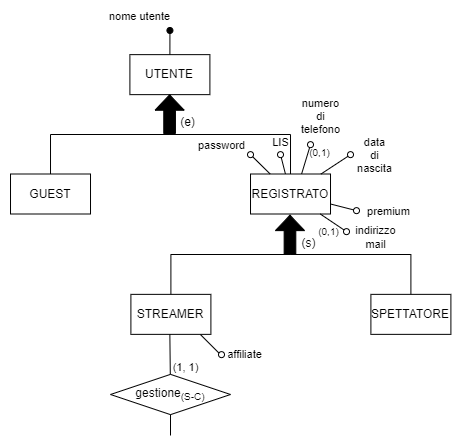
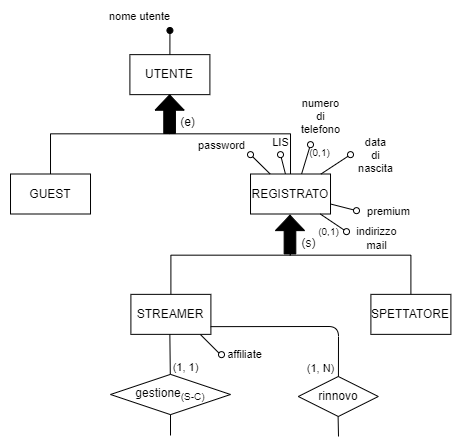
Correzione commit precedente
Aggiunto relazione mancante a generalizzazione 1 e aggiornato relativo markdown, ordinato testo nel file "3 Schema progettazione logica.md" parte 2.3.2.

diff --git a/Progetto Esame - DBSperimentazioni A.A. 2023-2024/Markdown/3 Schema progettazione logica.md b/Progetto Esame - DBSperimentazioni A.A. 2023-2024/Markdown/3 Schema progettazione logica.md
@@ -414,15 +414,25 @@ Nel processo di ristrutturazione, ci concentreremo sull'analisi e la rimozione d
 Dallo schema E-R concettuale, si può notare che le entità figlie `GUEST`, `STREAMER` e `SPETTATORE` o non hanno attributi oppure ne hanno solamente uno.
 Ci si concentra ora sulle ultime due entità figlie, `STREAMER` e `SPETTATORE`: non sono effettivamente delle entità, ma dei ruoli che l'entità padre `REGISTRATO` può assumere di tanto in tanto.
 Le due entità quindi possono essere incorporate nell'entità padre `REGISTRATO` senza aggiungere attributi "tipo", siccome il loro ruolo è facilmente intuibile dalle azioni di un utente registrato.
-La partecipazione dell'entità `REGISTRATO` all'associazione **_gestione<sub>(S-C)</sub>_** viene quindi aggiornata a (0,1), siccome solo uno streamer può avere un canale, mentre uno spettatore può non averlo (le altre partecipazioni e relative cardinalità rimangono inalterate).
+
+Le cardinalità delle partecipazioni dell'entità `REGISTRATO` alle associazioni **_gestione<sub>(S-C)</sub>_** e **_rinnovo_** vengono di conseguenza aggiornate a:
+
+- (0,1) nella prima associazione, siccome solo uno streamer può avere un canale, mentre uno spettatore può non averlo;
+- (0,N) nella seconda associazione, in quanto solo un utente streamer può rinnovare il servizio di hosting (si impone anche il relativo vincolo).
+
+Le altre partecipazioni e relative cardinalità rimangono invece inalterate.
+
 L'attributo **_affiliate_** che prima era dell'entità figlia `STREAMER` viene ora trasferito all'entità padre, ma con cardinalità (0,1) siccome la qualifica di affiliate può essere assegnata solo ad un utente streamer.
+
+Viene inoltre imposto il vincolo che solo uno streamer può partecipare all'associazione **_streaming_**.
 
 ![Generalizzazione 1b](../Immagini/generalizzazioni/2.3.2.1_gen_1b_cor.png)
 
 Adesso ci si concentra sull'entità `GUEST` senza attributi rimasta:
 
-qui risulta controproducente incorporare le entità figlie `GUEST` e `REGISTRATO` nell'entità padre `UTENTE`, in quanto si creerebbero degli sprechi di spazio producendo una base dati denormalizzata con
-valori nulli per colpa di `GUEST`. Si decide quindi di incorporare solamente l'entità `GUEST` nell'entità padre in quanto per identitficare un'utente guest basta solamente un nome utente univoco.
+qui risulta controproducente incorporare le entità figlie `GUEST` e `REGISTRATO` nell'entità padre `UTENTE`, in quanto si creerebbero degli sprechi di spazio producendo una base dati denormalizzata con valori nulli per colpa di `GUEST`.
+
+Si decide quindi di incorporare solamente l'entità `GUEST` nell'entità padre in quanto per identitficare un'utente guest basta solamente un nome utente univoco.
 
 ![Generalizzazione 1c](../Immagini/generalizzazioni/2.3.2.1_gen_1c_cor.png)
 
@@ -438,6 +448,7 @@ L'entità `REGISTRATO` invece viene utilizzata per compiere azioni riservate agl
 ![Generalizzazione 2a](../Immagini/generalizzazioni/2.3.2.2_gen_2a_cor.png)
 
 Dallo schema ER (considerato dopo l'eliminazione delle ridondanze), si può notare che la generalizzazione è totale ed esclusiva: le operazioni fanno ampiamente distinzione tra le entità figlie e a dimostrazione di ciò si ha la presenza di associazioni che coinvolgono le entità figlie separatamente; l'entità genitore però viene utilizzata in alcune operazioni più generiche, come ad esempio il calcolo della media dei like di ogni contenuto multimediale, indipendentemente che esso sia un video, una clip o una live.
+
 Essendo le entità figlie delle specializzazioni dell'entità padre `CONTENUTO MULTIMEDIALE` e avente quest'ultima pochi attributi, si potrebbe pernsare di accorpare ad esse l'entità genitore.
 
 Questo però causerebbe almeno due problemi:
@@ -452,18 +463,30 @@ Anche se potrebbe generare più accessi, si decide infine di sostituire la gener
 ![Generalizzazione 2b](../Immagini/generalizzazioni/2.3.2.2_gen_2b.png)
 
 Tutte e tre le nuove associazioni hanno cardinalità (0,1) e (1,1) e le entità `LIVE`, `VIDEO` e `CLIP` sono identificate esternamente dall'entità `CONTENUTO MULTIMEDIALE`.
+
 Si aggiunge anche un vincolo di partecipazione alle tre nuove associazioni, in quanto un occorrenza di `CONTENUTO MULTIMEDIALE` non può partecipare a più di una associzione per volta: un contenuto multimediale deve infatti essere un video, una live o una clip.
 
 #### 2.3.2.3 Generalizzazione 3 (generalizzazione dell'interazione utenti-contenuto multimediale)
 
 ![Generalizzazione 3a](../Immagini/generalizzazioni/2.3.2.3_gen_3a_cor.png)
 
-Dallo schema ER, si nota subito che le entità figlie partecipano entrambe ad una associazione con la medesima entità `EMOJI`. Inoltre, le operazioni che coinvolgono la generalizzazione non fanno molta distinzione tra le occorrenze delle varie entità, specialmente considerando che un commento e una reazione possono essere viste come una generica interazione sia rispetto all'utente che la crea che alla live che la riceve. Un aspetto degno di nota è la presenza di attributi solo nell'entità `COMMENTO` che, anche se occupano spazio (specialmente il messaggio che costituisce il commento), non hanno corrispondenti nell'entità `REAZIONE`. Infine, si possono osservare le cardinalità in gran parte identiche con le quali le entità figlie vengono associate all'entità `EMOJI`: possono infatti essere uniformate a (0,N) grazie all'introduzione di vincoli, permettendo la fusione delle associazioni **_presenza<sub>(C-E)</sub>_** e **_presenza<sub>(R-E)</sub>_** in una sola associazione **_presenza_**.
+Dallo schema ER, si nota subito che le entità figlie partecipano entrambe ad una associazione con la medesima entità `EMOJI`.
+
+Inoltre, le operazioni che coinvolgono la generalizzazione non fanno molta distinzione tra le occorrenze delle varie entità, specialmente considerando che un commento e una reazione possono essere viste come una generica interazione sia rispetto all'utente che la crea che alla live che la riceve.
+
+Un aspetto degno di nota è la presenza di attributi solo nell'entità `COMMENTO` che, anche se occupano spazio (specialmente il messaggio che costituisce il commento), non hanno corrispondenti nell'entità `REAZIONE`.
+
+Infine, si possono osservare le cardinalità in gran parte identiche con le quali le entità figlie vengono associate all'entità `EMOJI`: possono infatti essere uniformate a (0,N) grazie all'introduzione di vincoli, permettendo la fusione delle associazioni **_presenza<sub>(C-E)</sub>_** e **_presenza<sub>(R-E)</sub>_** in una sola associazione **_presenza_**.
+
 Per questi motivi, si sceglie di accorpare le entità figlie nell'entità genitore `INTERAZIONE`.
 
 ![Generalizzazione 3b](../Immagini/generalizzazioni/2.3.2.3_gen_3b.png)
 
-Per distinguere un commento da una reazione, è stato introdotto l'attributo **_tipologia_** e si impone il vincolo che un'iterazione di tipo **_reazione_** partecipi all'associazione **_presenza_** solamente con cardinalità (1,1). Gli attributi dell'entità `COMMENTO` sono stati anch'essi trasferiti all'entità `INTERAZIONE`, ma resi opzionali, in quanto non necessari per una reazione. Anche se questa scelta può portare a valori nulli e a uno spreco di spazio, permette però di ridurre notevolmente il numero di accessi a entità e associazioni e di semplificare le operazioni.
+Per distinguere un commento da una reazione, è stato introdotto l'attributo **_tipologia_** e si impone il vincolo che un'iterazione di tipo **_reazione_** partecipi all'associazione **_presenza_** solamente con cardinalità (1,1). 
+
+Gli attributi dell'entità `COMMENTO` sono stati anch'essi trasferiti all'entità `INTERAZIONE`, ma resi opzionali, in quanto non necessari per una reazione.
+
+Anche se questa scelta può portare a valori nulli e a uno spreco di spazio, permette però di ridurre notevolmente il numero di accessi a entità e associazioni e di semplificare le operazioni.
 
 ### 2.3.3 Partizionamento/accorpamento di entità e associazioni
 
